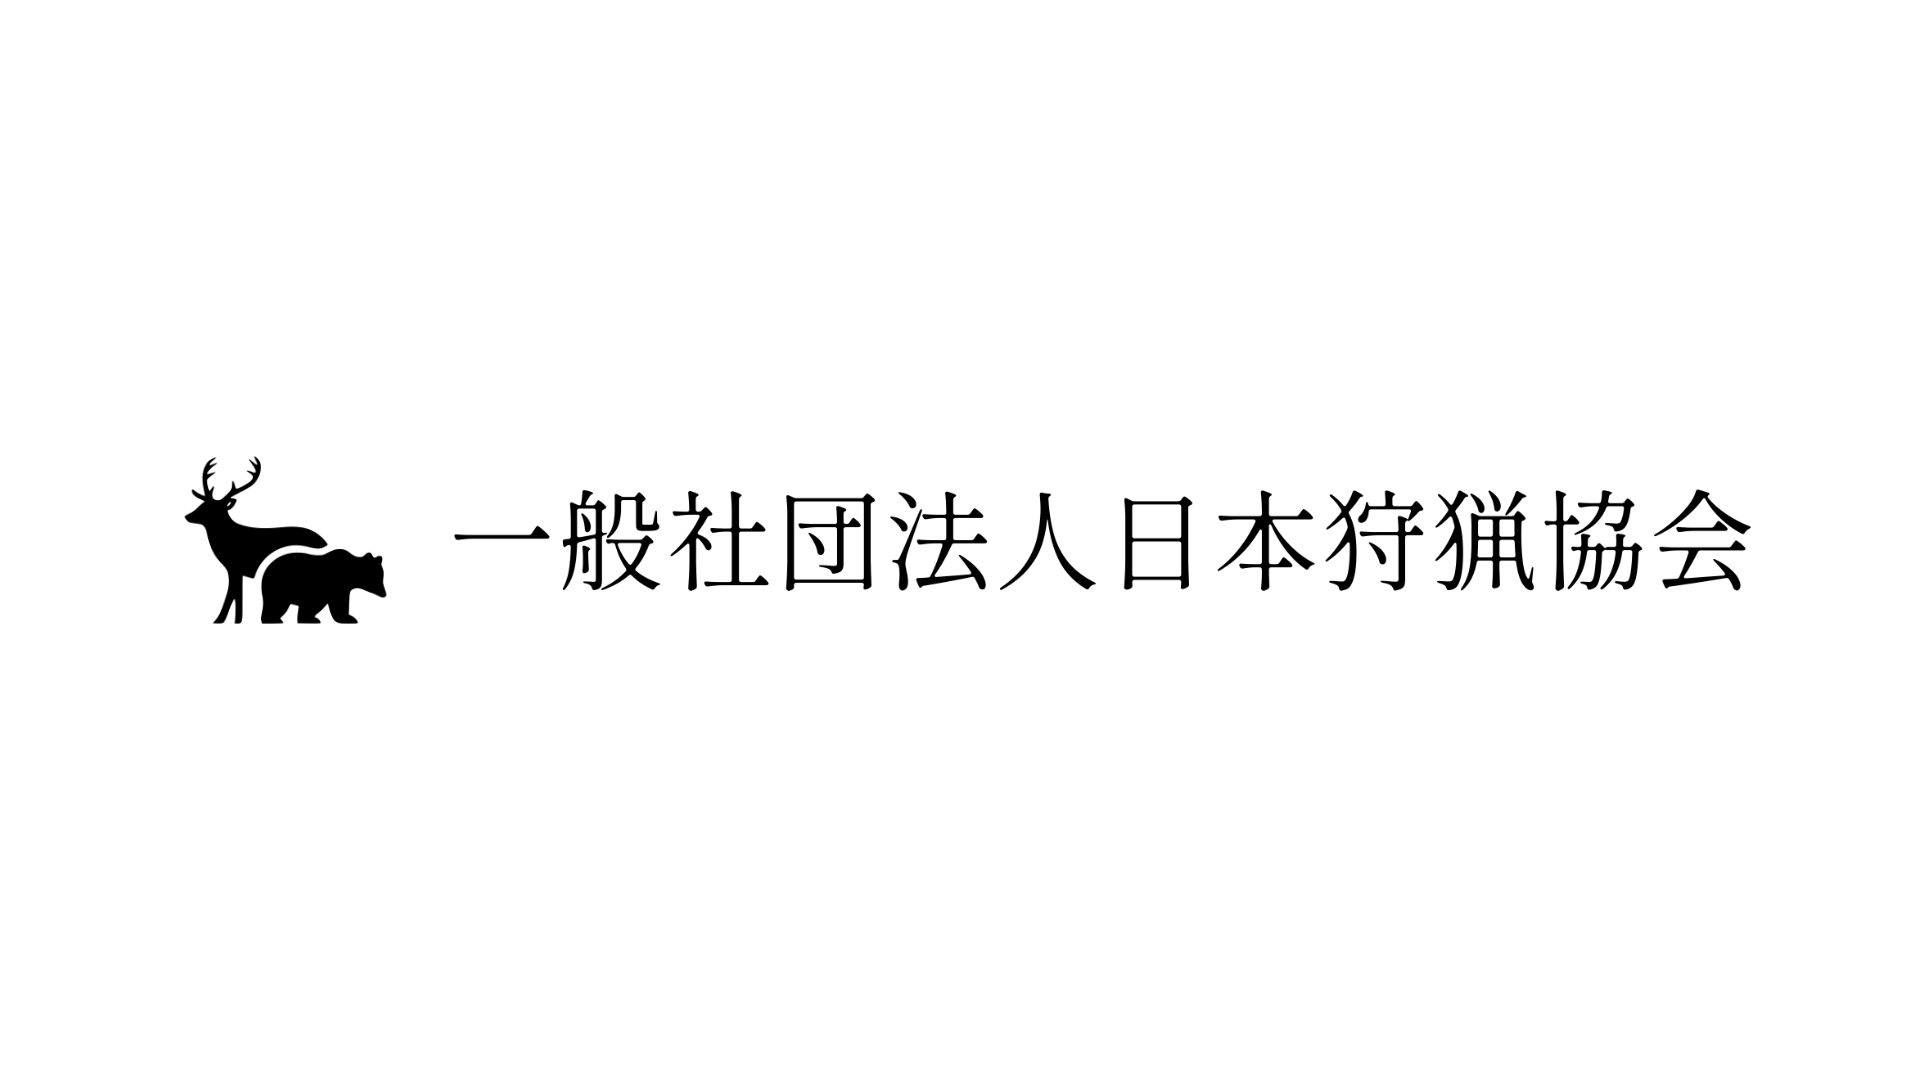
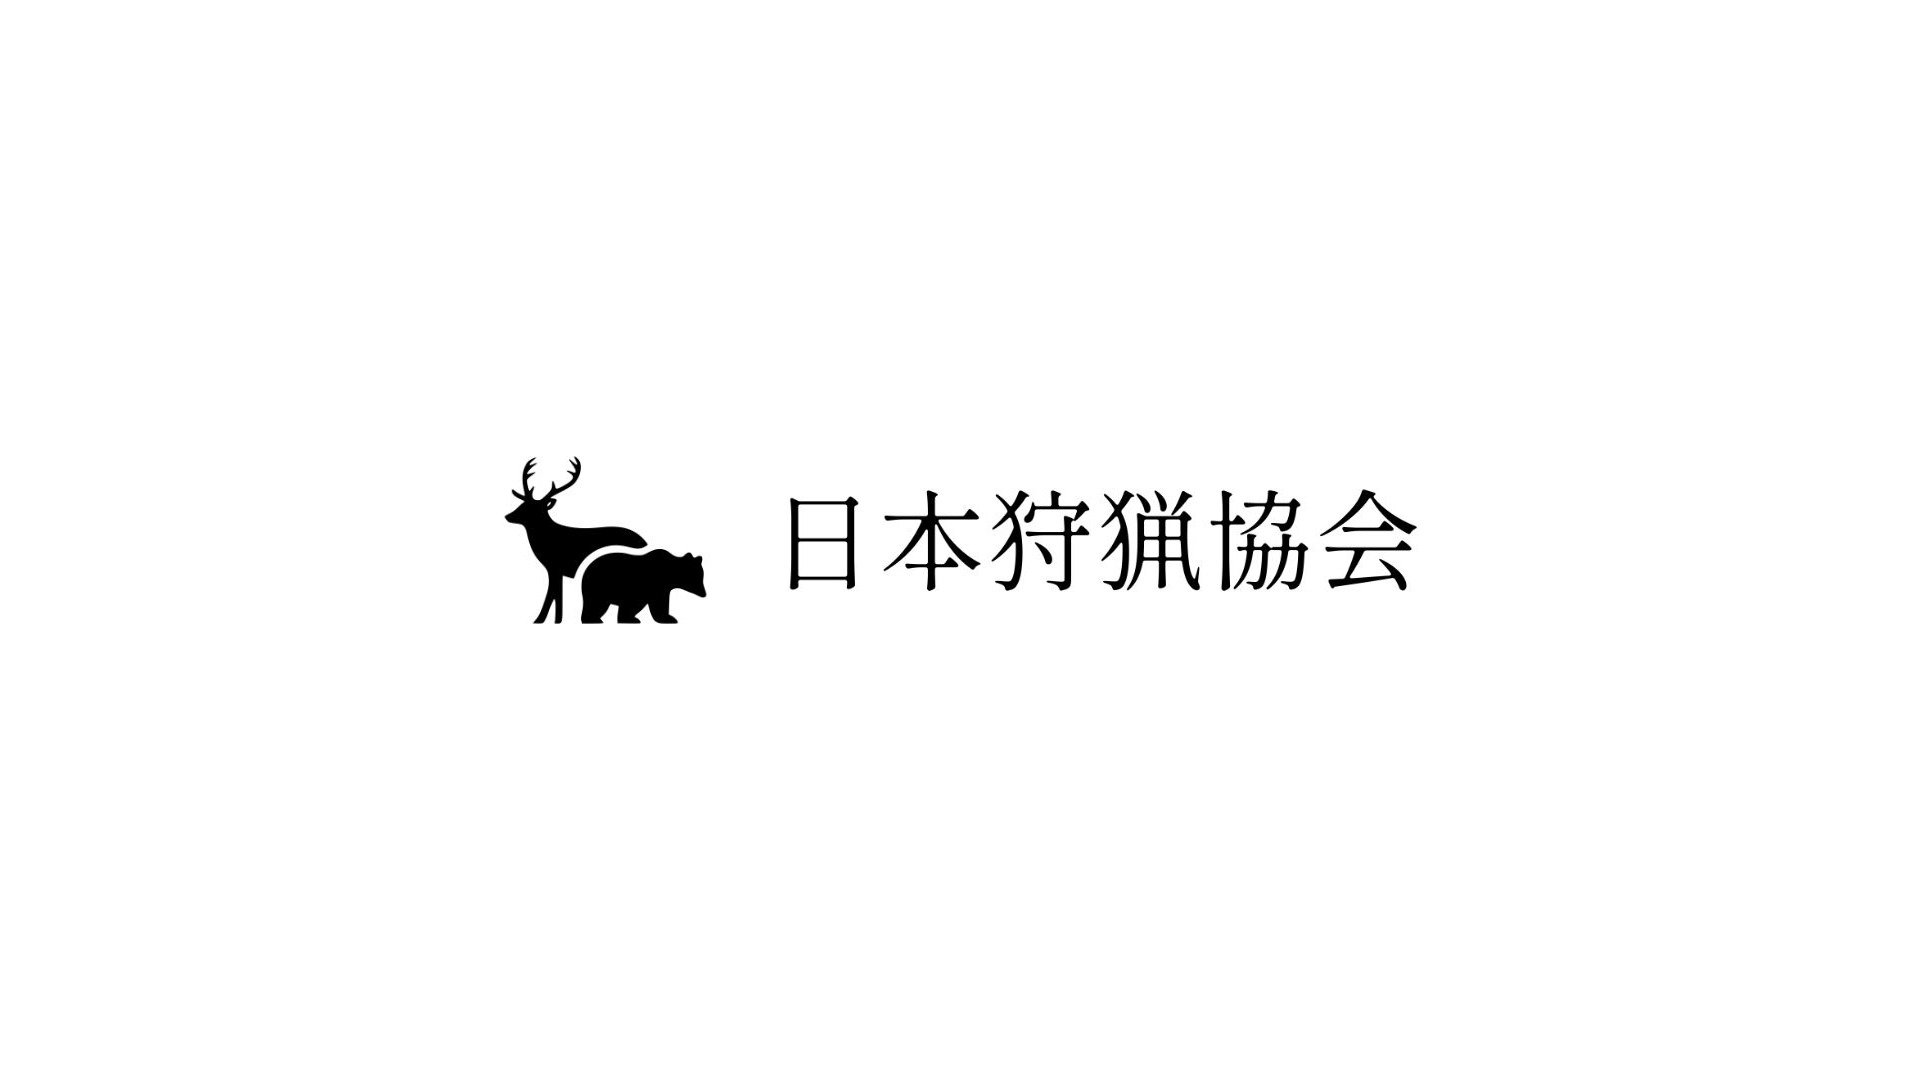
chore: 任意団体への移行に伴い「一般社団法人」表記を削除 (#28)
- サイト全体（フッター・メタ情報・規約・お知らせ記事等）から「一般社団法人」を削除
- OGP画像から「一般社団法人」の文字を除去し、ロゴと協会名を中央に再配置
- 「法人情報」「法人名」を「団体情報」「団体名」に変更
- 入会案内の「非営利型一般社団法人」を「非営利の任意団体」に変更
- 「代表理事」「理事」を「代表」「運営メンバー」に、「理事会」を「運営メンバー」「運営会議」に変更
- フッターのコピーライト年号を 2024-2026 に更新

🤖 Generated with [Claude Code](https://claude.com/claude-code)

Changed region(s): [[0.25, 0.4278, 0.9062, 0.5806], [0.0938, 0.4278, 0.2188, 0.5806]]

diff --git a/src/i18n/ui.ts b/src/i18n/ui.ts
@@ -19,8 +19,8 @@ export const languages = {
     },
     ja: {
       'footer.about-us': '日本狩猟協会について',
-      'footer.director': '構成理事',
-      'footer.association': '法人情報',
+      'footer.director': '運営メンバー',
+      'footer.association': '団体情報',
       'footer.join': '会員になるには',
       'footer.recruit': '募集人材',
       'footer.privacy': 'プライバシーポリシー',

diff --git a/src/content/topic/ja/website-redesign.md b/src/content/topic/ja/website-redesign.md
@@ -2,14 +2,14 @@
 title: 'ホームページデザインを全面刷新しました'
 isPublic: true
 pubDate: 2025-09-03
-description: '一般社団法人日本狩猟協会のホームページデザインを全面的にリニューアルしました。'
+description: '日本狩猟協会のホームページデザインを全面的にリニューアルしました。'
 author: 'yunoda'
 cover: "src/assets/online-hunters-union.png" 
 coverAlt: "Japan Hunting Association website redesign announcement"
 lang: ja
 ---
 
-この度、一般社団法人日本狩猟協会のホームページデザインを全面的に刷新いたしましたことをお知らせいたします。
+この度、日本狩猟協会のホームページデザインを全面的に刷新いたしましたことをお知らせいたします。
 
 ## 主な改善点
 
@@ -40,12 +40,12 @@ lang: ja
 
 新しくなったホームページを通じて、より多くの方々に狩猟の魅力と協会の活動をお伝えできることを願っております。
 
-引き続き、一般社団法人日本狩猟協会をよろしくお願い申し上げます。
+引き続き、日本狩猟協会をよろしくお願い申し上げます。
 
 <br>
 <br>
 <br>
 
 <div style="text-align: right;">
-一般社団法人日本狩猟協会　代表理事　yunoda
+日本狩猟協会　代表　yunoda
 </div>

diff --git a/src/content/topic/ja/the_company_registration.md b/src/content/topic/ja/the_company_registration.md
@@ -2,14 +2,14 @@
 title: '法人登記完了のご報告'
 isPublic: true
 pubDate: 2024-10-02
-description: '一般社団法人日本狩猟協会の法人登記が完了しました。'
+description: '日本狩猟協会の法人登記が完了しました。'
 author: 'yunoda'
 cover: "src/assets/online-hunters-union.png" 
 coverAlt: "The company registration of Japan Hunting Associaiton has been completed."
 lang: ja
 ---
 
-このたび、一般社団法人日本狩猟協会は2024年10月2日付で法人登記されましたことをご報告いたします。
+このたび、日本狩猟協会は2024年10月2日付で法人登記されましたことをご報告いたします。
 
 当団体は、細りゆく狩猟業界を危惧し、なんとかその流れを止めるべく有志で結成された狩猟団体です。
 
@@ -22,5 +22,5 @@ lang: ja
 <br>
 
 <div style="text-align: right;">
-一般社団法人日本狩猟協会　代表理事　yunoda
+日本狩猟協会　代表　yunoda
 </div>

diff --git a/src/content/topic/ja/activity-reports-added.md b/src/content/topic/ja/activity-reports-added.md
@@ -9,7 +9,7 @@ coverAlt: "Japan Hunting Association activity reports announcement"
 lang: ja
 ---
 
-このたび、一般社団法人日本狩猟協会の2024年度の各種報告書を公開いたしましたのでお知らせいたします。
+このたび、日本狩猟協会の2024年度の各種報告書を公開いたしましたのでお知らせいたします。
 
 ## 公開した報告書
 
@@ -37,5 +37,5 @@ lang: ja
 <br>
 
 <div style="text-align: right;">
-一般社団法人日本狩猟協会　代表理事　yunoda
+日本狩猟協会　代表　yunoda
 </div>
